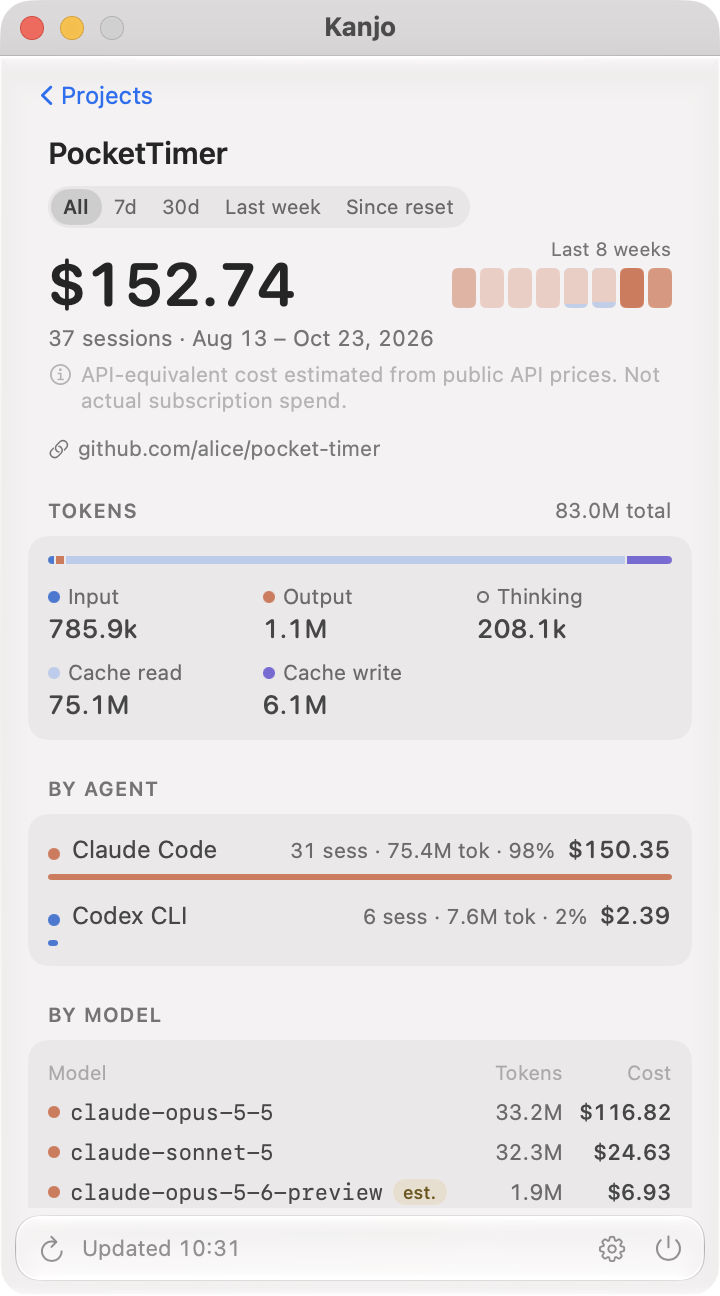
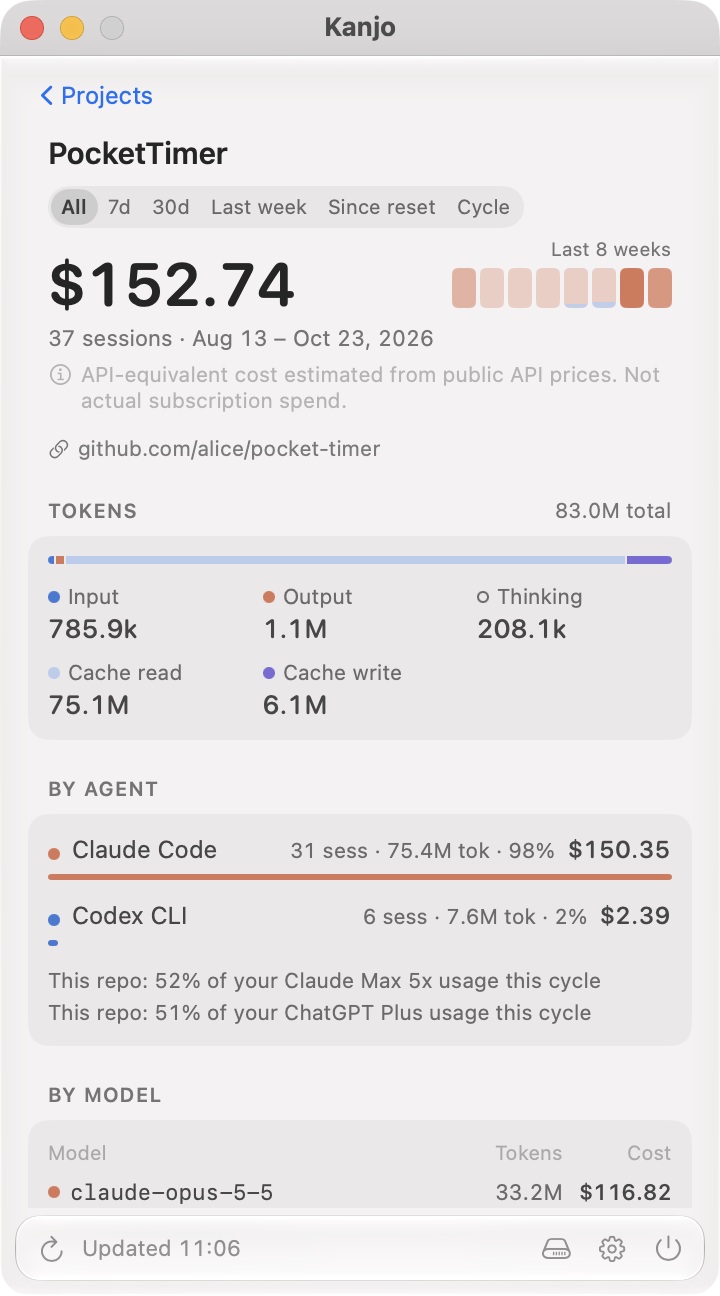
Release 0.2.0: subscription value, ledger, disk, renewal-day guidance; new screenshots

diff --git a/README.md b/README.md
@@ -35,14 +35,16 @@ Kanjo scans the local logs of your AI coding agents once, attributes every sessi
 
 - **A treemap of your repos by cost.** One glance tells you where the money went.
 - **An 8-week burn strip per repo**, colored by agent, so you can see which weeks were Claude and which were Codex.
-- **Time ranges**: all time, 7 days, 30 days, last week, or *since your last quota reset* (read from Tokei's cache, or set by hand).
-- **Per-repo detail**: by agent, by model, by day, by branch, and every session with how it was attributed.
+- **Subscription value.** Your plan's flat fee next to what this billing cycle's work would have cost on API billing, and the multiplier. The number subscription users actually want.
+- **Time ranges**: all time, 7 days, 30 days, last week, *since your last quota reset*, or *this billing cycle*.
+- **Per-repo detail**: by agent, by model, by day, by branch, every session with how it was attributed, and the repo's share of each plan's cycle.
+- **Disk.** How much space each agent's logs, scratch worktrees and caches take, what is safe to reclaim, and a cleanup that goes through the Trash. Your statistics stay in a permanent ledger, so deleting logs never deletes history.
 - **Hide and pin** repos you don't care about or care about most.
 - **Liquid Glass** on macOS 26, a plain material on 13–25.
 
 <p align="center">
   <img src="docs/screenshots/detail-light.png" width="360" alt="Project detail">
-  <img src="docs/screenshots/since-reset-dark.png" width="360" alt="Since reset range">
+  <img src="docs/screenshots/disk-light.png" width="360" alt="Disk page">
 </p>
 
 Every number is an **API-equivalent cost**: tokens × public API price. It is what the same work would have cost on pay-as-you-go billing. If you pay a subscription, it is not what you paid. The app says so on every screen and does not let you hide the note.
@@ -150,8 +152,10 @@ Kanjo 扫一遍本机 AI 编程工具的日志，把每个会话归到一个 git
 
 - **按花费的 treemap**：一眼看出钱去哪了。
 - **每个 repo 一条 8 周燃烧热力条**，按 agent 分色，哪周是 Claude、哪周是 Codex 看得出来。
-- **时间范围**：全部、7 天、30 天、上周、或**自上次额度重置以来**（从 Tokei 缓存读，也可手动设置）。
-- **项目详情**：按 agent、按模型、按天、按分支，以及每个会话是怎么归属的。
+- **订阅价值**：左边是你实际付的月费，右边是本账期的活按 API 计费要多少，以及倍数。订阅用户真正关心的数。
+- **时间范围**：全部、7 天、30 天、上周、自上次额度重置以来、或本账期。
+- **项目详情**：按 agent、按模型、按天、按分支，每个会话是怎么归属的，以及这个 repo 占了你各订阅本账期的多少。
+- **Disk**：每个工具的日志、临时 worktree、缓存各占多少空间，哪些能安全回收，清理走废纸篓。统计数据存在永久账本里，删日志不丢历史。
 - **隐藏与置顶**。
 - macOS 26 用 **Liquid Glass**，13 到 25 用普通材质。
 

diff --git a/CHANGELOG.md b/CHANGELOG.md
@@ -6,6 +6,34 @@ uses [Semantic Versioning](https://semver.org/spec/v2.0.0.html).
 
 ## [Unreleased]
 
+## [0.2.0] - 2026-10-25
+
+### Added
+
+- **Subscription value.** Detects your plan (Claude Max/Pro from `~/.claude.json`, ChatGPT plan
+  from Tokei's cache) and shows, per plan, the flat fee next to the API-equivalent usage of the
+  current billing cycle and the multiplier between them. Billing cycle dates and "renews in N days"
+  on every row; `Billing cycle` time range; per-repo share of each plan's cycle usage.
+- **Renewal day you can set.** Renewal days cannot be detected locally, so the app no longer assumes
+  the 1st: unknown days use a rolling 30-day window labelled "set renewal day", one click leads to
+  the Settings row, an "Open billing page" button opens the vendor's billing page, and
+  `kanjo config set subscriptions.<agent>.anchor_day N` stores the day in `~/.config/kanjo/overrides.json`.
+- **Permanent ledger.** Every parsed session is kept in `~/.local/share/kanjo/ledger.json`, so
+  deleting log files no longer deletes your history. `kanjo ledger` reports counts.
+- **Disk.** `kanjo disk` reports how much space each agent's sessions, scratch worktrees, caches
+  and memory take, which entries are reclaimable and why others are blocked (not yet imported,
+  uncommitted changes, active in the last 24 h). `kanjo disk clean` moves files to the Trash
+  (`~/.Trash/kanjo-<timestamp>/`) and removes git worktrees properly. The app's Disk page
+  (hard-drive icon in the bottom bar) previews the plan before anything moves. Reports are cached
+  for 10 minutes and prefetched in the background, so the page opens instantly.
+- Menu bar amount follows the selected time range (`7d $…`, `cyc $…`).
+
+### Changed
+
+- `by_day` entries carry `by_agent` and `by_agent_tokens`; `quota_windows` is read from Tokei's
+  cache or set by hand; heat strip cells are split by agent share.
+- Nested repositories without a remote fold into the enclosing project.
+
 ## [0.1.0] - 2026-10-24
 
 First public release. Before publishing, the project went by the working name `aicost`.
@@ -39,5 +67,6 @@ First public release. Before publishing, the project went by the working name `a
 - `ui/package.sh` builds an ad-hoc signed `Kanjo.app` and a zip for release.
 - GitHub Actions CI for the CLI (Python 3.9 and 3.12) and the app (`swift build`, `swift test`).
 
-[Unreleased]: https://github.com/mammut001/kanjo/compare/v0.1.0...HEAD
+[Unreleased]: https://github.com/mammut001/kanjo/compare/v0.2.0...HEAD
+[0.2.0]: https://github.com/mammut001/kanjo/releases/tag/v0.2.0
 [0.1.0]: https://github.com/mammut001/kanjo/releases/tag/v0.1.0
